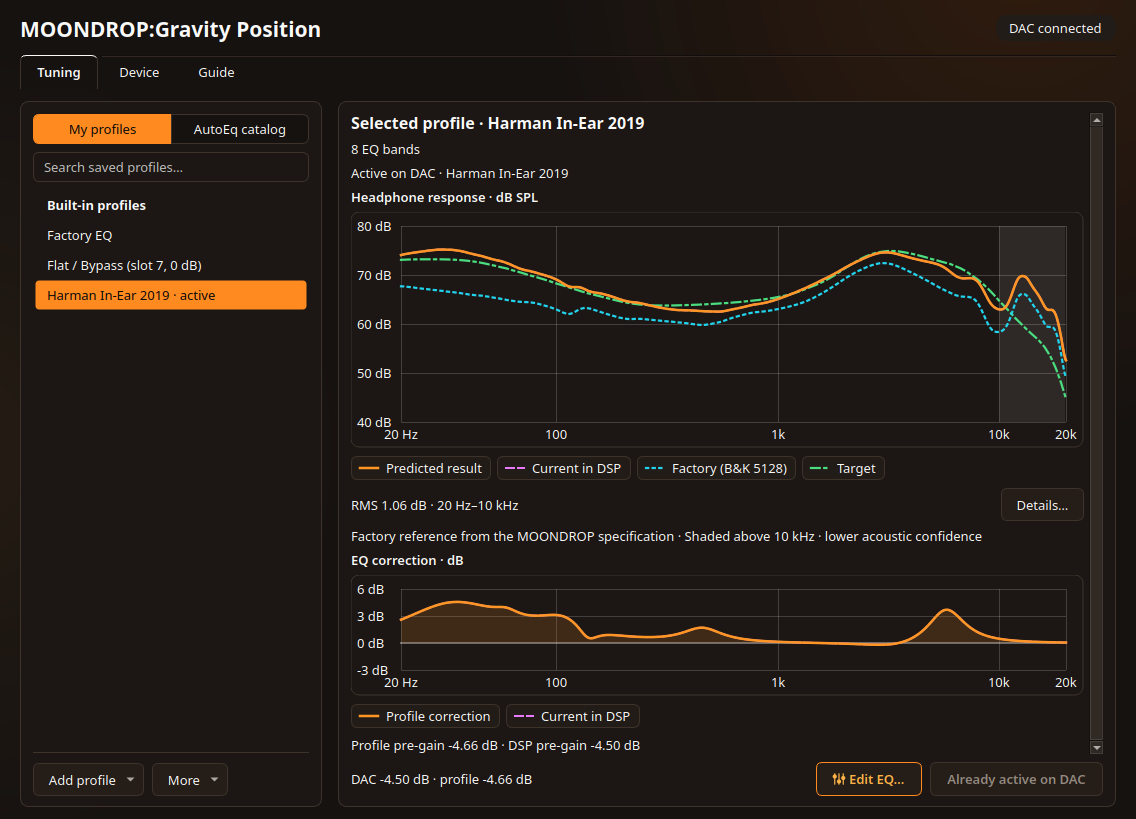
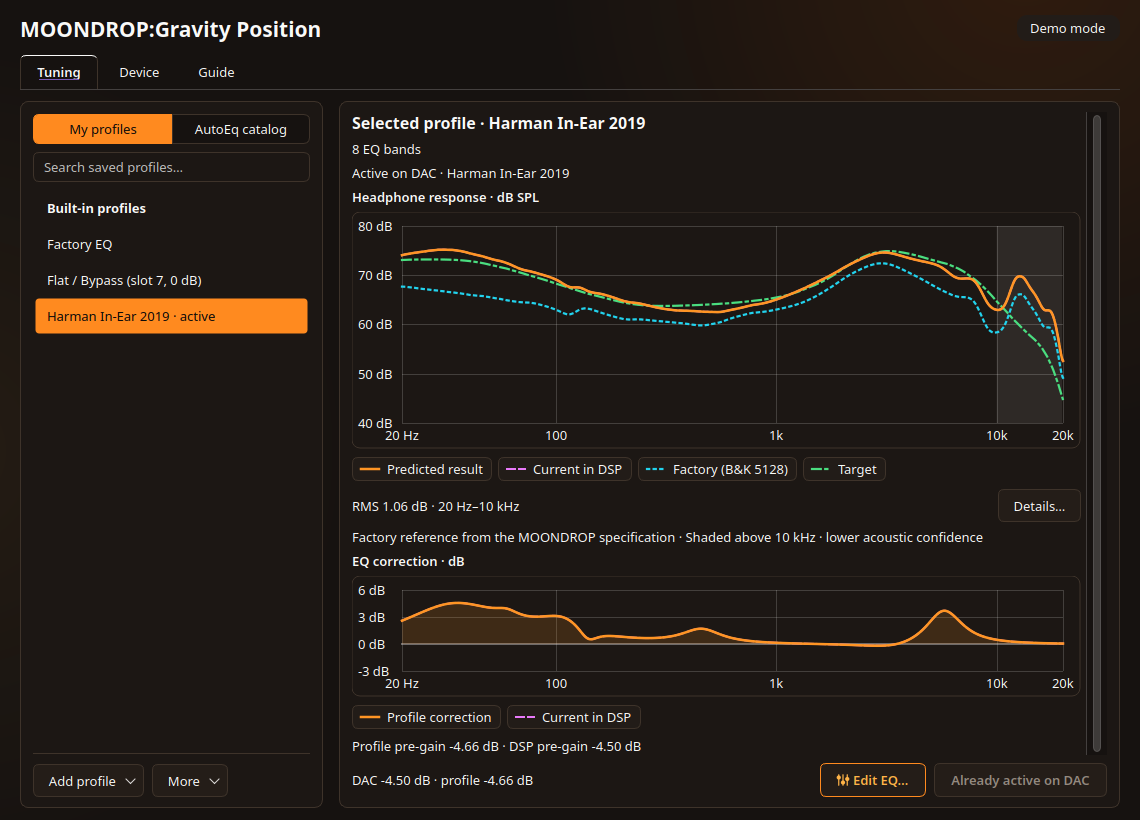
Refresh bilingual README screenshots for v0.3.6

diff --git a/README.pl.md b/README.pl.md
@@ -92,6 +92,8 @@ Obecny transport HID otwiera bezpośrednio `/dev/hidraw*`. Portal USB Flatpaka p
 
 ## Zrzuty ekranu
 
+MOONDROP:Gravity Position v0.3.6 w trybie demonstracyjnym z motywem **Ciemny (InnoVibe)**.
+
 ### 1. Strojenie i podgląd charakterystyki
 Po lewej przeglądasz **Moje profile**, a po prawej oglądasz przewidywany efekt bez zmieniania ustawień sprzętu — **Wybrany profil** i **Aktywny w DAC-u** są wyraźnie rozdzielone, dopóki nie klikniesz **Wgraj do DAC-a** (przycisk zmienia się na **Już aktywny w DAC-u**, gdy stan sprzętu jest zgodny z wyborem).
 
@@ -100,15 +102,22 @@ Po lewej przeglądasz **Moje profile**, a po prawej oglądasz przewidywany efekt
 - Gdy DAC potwierdzi zaokrąglony pre-gain, pasek akcji obok **Wgraj do DAC-a** pokazuje wartość potwierdzoną przez urządzenie i wartość z profilu.
 - Klikaj pigułki legendy, aby ukrywać/pokazywać krzywe, najedź na pigułkę dla trybu **Solo**, lub najedź na wykres, by odczytać na żywo `Hz / dB / Δ dB`.
 
-![Strojenie i profile](docs/screenshots/01-tuning-profiles.png)
+![Strojenie z dwoma wykresami i potwierdzonym pre-gainem obok przycisku Wgraj do DAC-a](docs/screenshots/pl/01-tuning-profiles.png)
+
+<details>
+<summary>Strojenie w małym oknie</summary>
+
+![Kompaktowe Strojenie z przełącznikiem charakterystyki i korekcji EQ](docs/screenshots/pl/06-tuning-compact.png)
+
+</details>
 
 ### 2. Wbudowany katalog AutoEq (ponad 6800 modeli)
-Przełącz się na **Katalog AutoEq**, aby wyszukiwać i filtrować tysiące pomiarów słuchawek IEM i nausznych według źródła pomiarów (Crinacle, Oratory1990 i inne) oraz typu, lub przeciągnij na okno własną krzywą `.csv` / `.txt`.
+W **Katalogu AutoEq** wybierz źródło pomiarów i typ słuchawek, a następnie wyszukaj model. Możesz też przeciągnąć na okno własną krzywą `.csv` / `.txt`.
 
 - Wybierz **Zakres obliczeń** (`20 Hz–20 kHz` lub do `6 / 4 / 2 kHz`, aby zostawić wyższe pasma do ręcznego strojenia) i kliknij **Oblicz profil**.
 - Wyliczony profil zapamiętuje użyty zakres (również po zapisaniu na dysku) i podpowiada przeliczenie przed zapisem lub wgraniem, jeśli zmienisz zakres.
 
-![Katalog AutoEq](docs/screenshots/02-autoeq-catalog.png)
+![Katalog AutoEq](docs/screenshots/pl/02-autoeq-catalog.png)
 
 ### 3. Edytor 8-pasmowego EQ i odsłuch na żywo
 Kliknij **Edytuj EQ…**, aby otworzyć osobny edytor. Przy podłączonym DAC-u **Odsłuch na żywo** uruchamia się automatycznie, pozwala sprawdzać każdą zmianę w czasie rzeczywistym bez zapisu do flash i bezpiecznie przywraca wcześniejsze ustawienia DAC-a po wyłączeniu lub anulowaniu.
@@ -117,7 +126,7 @@ Kliknij **Edytuj EQ…**, aby otworzyć osobny edytor. Przy podłączonym DAC-u 
 - Jeśli stroma półka `LSQ` lub `HSQ` przekracza zakres współczynników DAC-a, zmniejsz Q lub gain. Po zakończeniu odsłuch przywraca pierwotne współczynniki i pre-gain.
 - Przełącz na zakładkę **Charakterystyka**, aby ocenić odpowiedź akustyczną, włącz **Porównaj z profilem wyjściowym**, a dolnym paskiem zapisz profil na dysku (**Zapisz profil**), wyeksportuj (**Eksportuj profil…** do `.txt` / `.json`) lub wgraj do pamięci DAC-a (**Wgraj do DAC-a**).
 
-![Edytor EQ](docs/screenshots/04-eq-editor.png)
+![Edytor EQ](docs/screenshots/pl/04-eq-editor.png)
 
 ### 4. Stan urządzenia, wzmocnienie i jakość PipeWire UAC2
 Sprawdź od razu aktywny profil na DAC-u, slot (`0` fabryczny / `7` własny), pre-gain oraz wzmocnienie wyjścia i mikrofonu.
@@ -125,12 +134,19 @@ Sprawdź od razu aktywny profil na DAC-u, slot (`0` fabryczny / `7` własny), pr
 - Podglądaj aktywny strumień ALSA i ustaw **Próbkowanie PipeWire** dla całej sesji. Wybierz **Automatyczna (PipeWire)** lub stałą częstotliwość (`44,1–384 kHz`) i kliknij **Zastosuj**. W sekcji **Szczegóły USB i PipeWire** znajdziesz surowy format USB i wersję firmware.
 - Wykonaj kopię zapasową slotu Custom do pliku JSON, przywróć **Ustawienia fabryczne…** oraz zmieniaj motyw (**InnoVibe Ciemny / Jasny**) i język (**PL / EN**).
 
-![Ustawienia urządzenia](docs/screenshots/03-device-settings.png)
+![Ustawienia urządzenia z pełną etykietą Automatyczna (PipeWire)](docs/screenshots/pl/03-device-settings.png)
+
+<details>
+<summary>Urządzenie w małym oknie</summary>
+
+![Kompaktowy widok Urządzenia z pełną etykietą próbkowania i przyciskami Zastosuj oraz Odśwież](docs/screenshots/pl/07-device-compact.png)
+
+</details>
 
 ### 5. Wbudowany Przewodnik, skróty i diagnostyka
 Wszystko pod ręką wewnątrz aplikacji: krótkie instrukcje wgrywania i odsłuchu, wyjaśnienie wykresów, obsługa Drag & Drop, skróty klawiszowe (`Ctrl+F` szukanie, `Ctrl+O` import, `Ctrl+Q` wyjście), kopiowanie diagnostyki jednym kliknięciem do zgłoszeń oraz odnośniki do wsparcia.
 
-![Zakładka Przewodnik](docs/screenshots/05-guide-tab.png)
+![Zakładka Przewodnik](docs/screenshots/pl/05-guide-tab.png)
 
 ---
 

diff --git a/README.md b/README.md
@@ -92,6 +92,8 @@ The current HID transport opens `/dev/hidraw*` directly. Flatpak's USB portal su
 
 ## Screenshots
 
+MOONDROP:Gravity Position v0.3.6 running in demo mode with the **InnoVibe Dark** theme.
+
 ### 1. Tuning & Frequency Response Preview
 Browse **My profiles** on the left and inspect the prediction on the right without touching your DAC — **Selected profile** and **Active on DAC** stay clearly separated until you click **Apply to DAC** (which changes to **Already active on DAC** once matched).
 
@@ -100,10 +102,17 @@ Browse **My profiles** on the left and inspect the prediction on the right witho
 - When the DAC confirms a rounded pre-gain, the action bar beside **Apply to DAC** shows the confirmed value and the profile value.
 - Click legend pills to hide/show curves, hover a pill to **solo** it, or hover the plot for a live `Hz / dB / Δ dB` readout.
 
-![Tuning and Profiles](docs/screenshots/01-tuning-profiles.png)
+![Tuning with both plots and the confirmed DAC pre-gain beside Apply to DAC](docs/screenshots/01-tuning-profiles.png)
+
+<details>
+<summary>Compact Tuning view</summary>
+
+![Compact Tuning with a switch between frequency response and EQ correction](docs/screenshots/06-tuning-compact.png)
+
+</details>
 
 ### 2. Built-in AutoEq Catalog (6,800+ Models)
-Switch to **AutoEq catalog** to search and filter thousands of IEM and over-ear measurements by database (Crinacle, Oratory1990, etc.) and form factor, or drag & drop your own `.csv` / `.txt` curve onto the window.
+Switch to **AutoEq catalog** to filter thousands of IEM and over-ear measurements by source and headphone type, then search by model. You can also drop your own `.csv` / `.txt` curve onto the window.
 
 - Pick a **Fit range** (`20 Hz–20 kHz` or up to `6 / 4 / 2 kHz` to keep upper bands free for manual treble tweaks) and click **Compute profile**.
 - Each computed profile records its fit range (including when saved to disk) and prompts you to recompute if you change the range before saving or applying.
@@ -125,7 +134,14 @@ Check your active DAC profile, slot (`0` Factory / `7` Custom), pre-gain, and ou
 - View the active ALSA playback stream and set the session-wide **PipeWire sample rate**. Choose **Automatic (PipeWire)** or a fixed rate (`44.1–384 kHz`) and select **Apply**. Expand **USB and PipeWire details** for raw USB format and firmware info.
 - Back up your DAC's Custom slot to JSON, run a **Factory reset…**, and switch between **InnoVibe Dark / Light** themes and **EN / PL** languages.
 
-![Device Settings](docs/screenshots/03-device-settings.png)
+![Device settings with the full Automatic (PipeWire) label](docs/screenshots/03-device-settings.png)
+
+<details>
+<summary>Compact Device view</summary>
+
+![Compact Device view with the full sample-rate label and its Apply and Refresh buttons](docs/screenshots/07-device-compact.png)
+
+</details>
 
 ### 5. Built-in Guide, Shortcuts & Diagnostics
 Everything you need inside the app: quick walkthroughs for tuning and live preview, drag-and-drop import tips, keyboard shortcuts (`Ctrl+F` search, `Ctrl+O` import, `Ctrl+Q` quit), 1-click diagnostic copy for bug reports, and direct support links.
